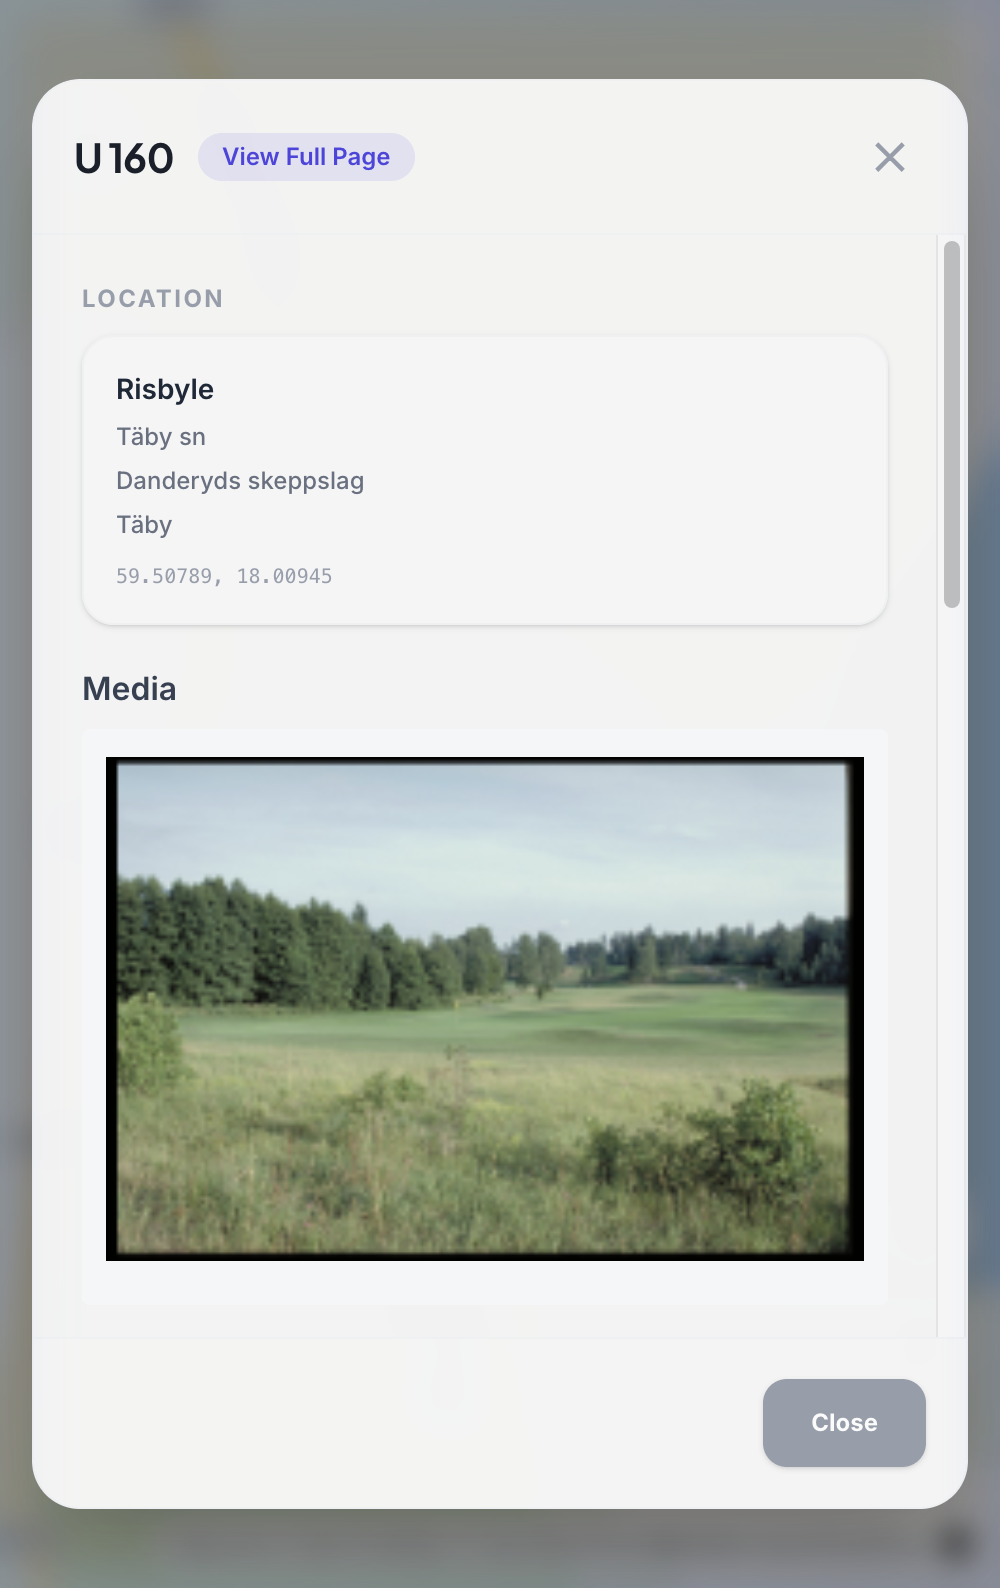
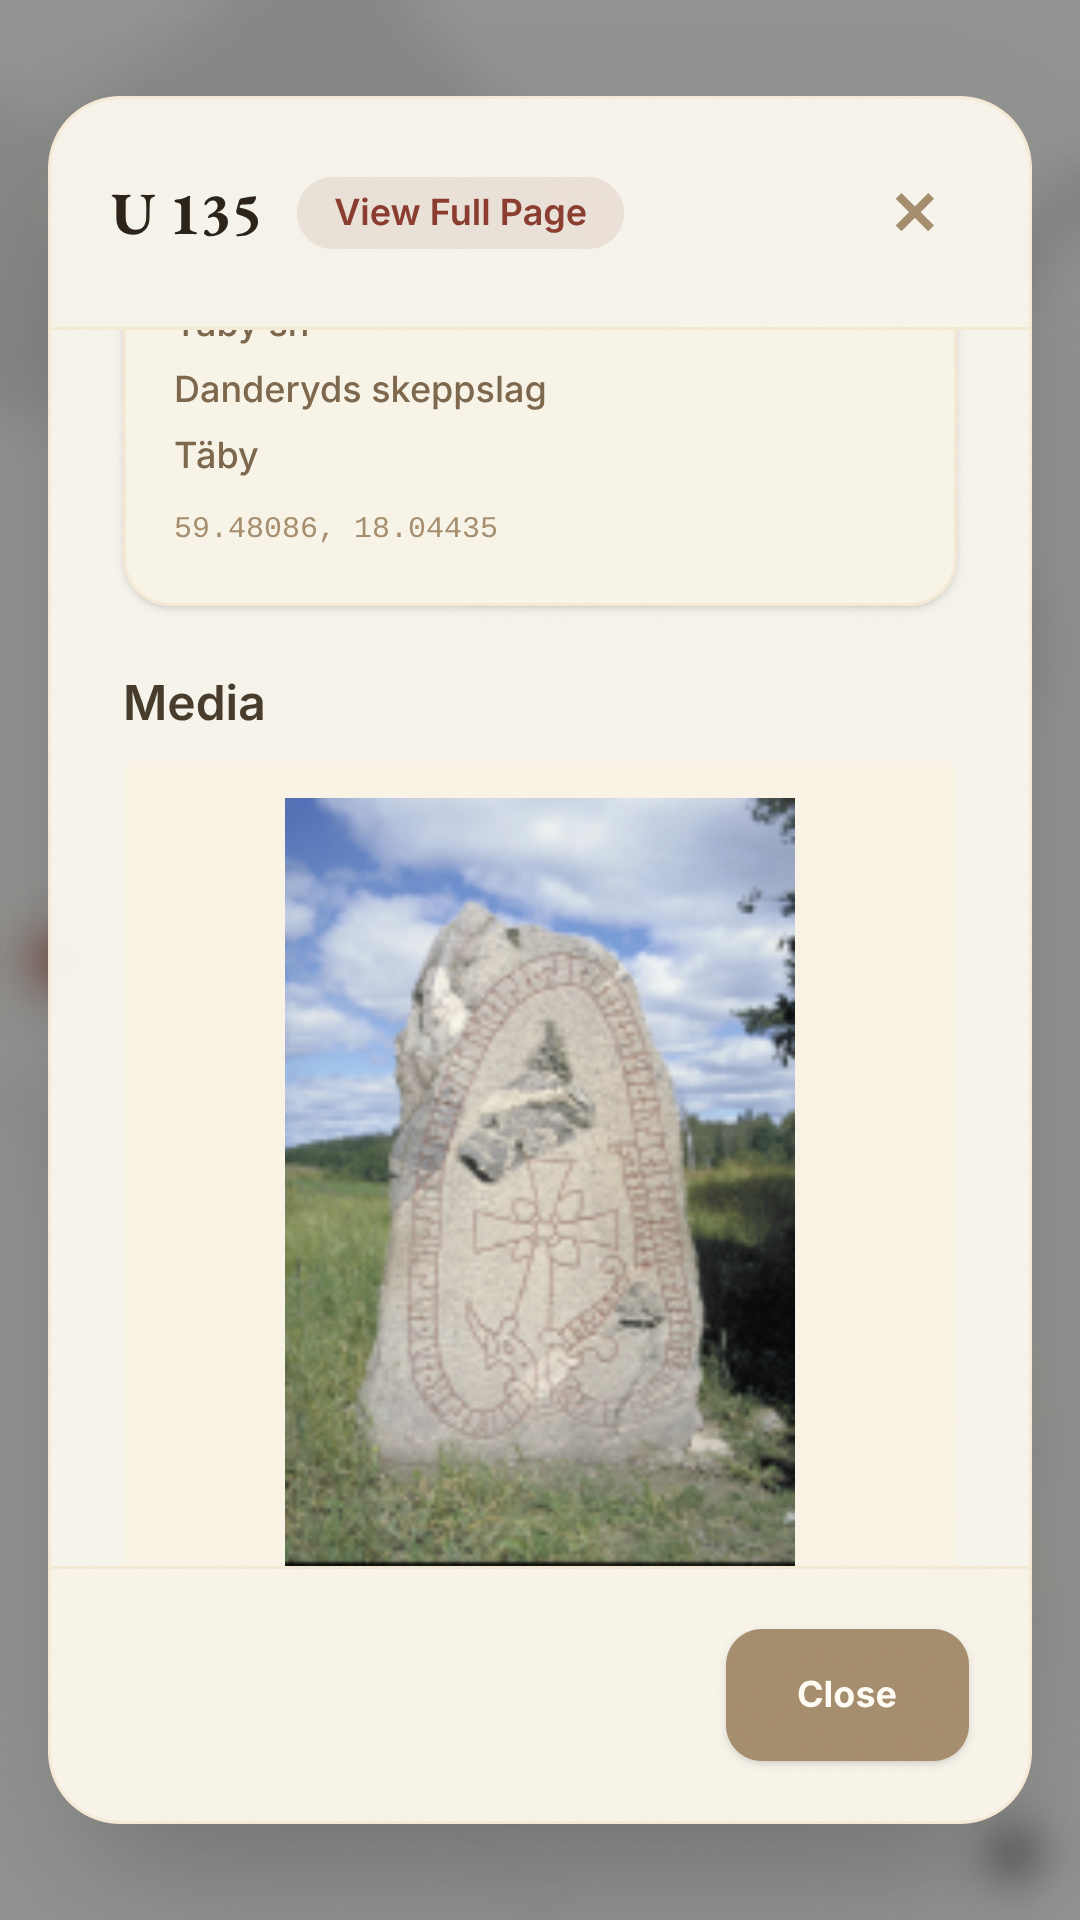
chore: regenerate Google Play screenshots for the current design
Recapture all six phone screenshots at 1080x1920 from the current app and
add the Playwright script used to produce them.

Claude-Session: https://claude.ai/code/session_01KsayaVrQQEK7YB6LF1EZZ6

diff --git a/store-assets/PLAY_STORE_LISTING.md b/store-assets/PLAY_STORE_LISTING.md
@@ -75,11 +75,14 @@ Start your expedition today and uncover the messages carved by the Vikings over 
 | :--- | :--- | :--- |
 | `icon-512x512.png` | 512 x 512 px, 32-bit PNG | ✅ Ready (High-res Swedish heritage logo) |
 | `feature-graphic-1024x500.jpg` | 1024 x 500 px, JPG or 24-bit PNG (no alpha) | ✅ Ready (Viking runestone in Nordic nature with map overlays) |
-| `screenshot-1-interactive-map.png` | Min 320px, Max 3840px, 16:9 / 2:1 ratio | ✅ Ready (Clustered map of 6,800+ runestones) |
-| `screenshot-2-runestone-preview.png` | Phone screenshot | ✅ Ready (Täby runestone quick preview card) |
-| `screenshot-3-runestone-details.png` | Phone screenshot | ✅ Ready (Full Norse text, English & Swedish translations) |
-| `screenshot-4-search-and-filters.png` | Phone screenshot | ✅ Ready (Search by signum, carver, region) |
-| `screenshot-5-profile-and-gpx-export.png` | Phone screenshot | ✅ Ready (Visited log & GPX hiking export) |
+| `screenshot-1-interactive-map.png` | Phone screenshot, 1080 x 1920 px (9:16) | ✅ Ready (Clustered map north of Stockholm) |
+| `screenshot-2-runestone-preview.png` | Phone screenshot, 1080 x 1920 px (9:16) | ✅ Ready (U 135 Broby quick preview card with photo) |
+| `screenshot-3-runestone-details.png` | Phone screenshot, 1080 x 1920 px (9:16) | ✅ Ready (Norse text, transliteration, Swedish & English translations) |
+| `screenshot-4-search-and-filters.png` | Phone screenshot, 1080 x 1920 px (9:16) | ✅ Ready (Search results for "Täby") |
+| `screenshot-5-profile-and-gpx-export.png` | Phone screenshot, 1080 x 1920 px (9:16) | ✅ Ready (Adventure progress & GPX export) |
+| `screenshot-6-scandinavia-overview.png` | Phone screenshot, 1080 x 1920 px (9:16) | ✅ Ready (Cluster overview of Scandinavia) |
+
+Screenshots are regenerated from the running app with `node scripts/store-screenshots.cjs` (see the header of that script).
 
 ---
 
